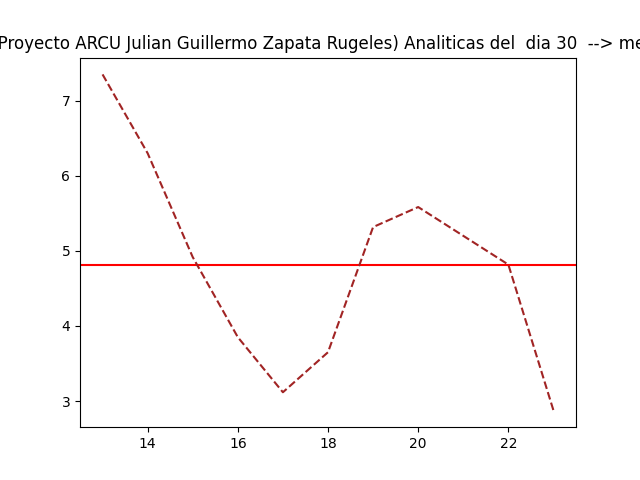
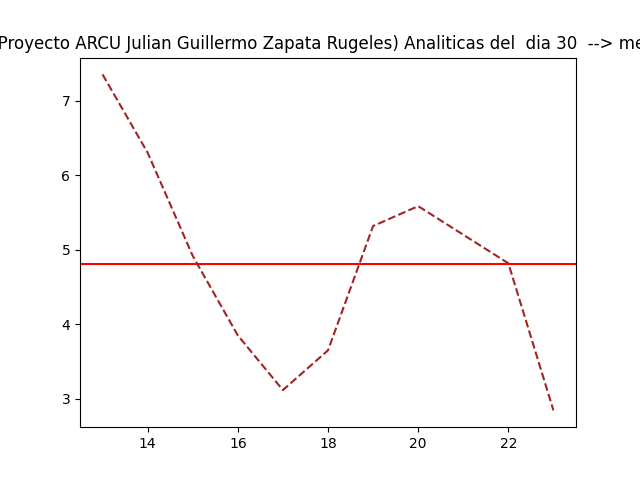
se añadió el registro de red (velocidad subida/bajada) y su modulo para graficar

diff --git a/analizador.py b/analizador.py
@@ -1,5 +1,6 @@
 import pandas as pd
 import matplotlib.pyplot as plt
+import numpy as np
 import os
 import math
 import time
@@ -42,10 +43,15 @@ def reporteEspecifico():
     eje_x = dataframeBuscado['minutos']
     eje_y = dataframeBuscado['dispositivos_activos']
 
+    velocidad_bajada  = dataframeBuscado['vel_bajada']
+    velocidad_subida  = dataframeBuscado['vel_subida']
     c=dataframeBuscado['dispositivos_activos'].mean()
     plt.title(titulo)
-    plt.axhline(y=c, color='r', linestyle='-')
+    plt.axhline(y=c, color='black', linestyle=':')
+    plt.plot(eje_x,velocidad_subida, color="green")
+    plt.plot(eje_x,velocidad_bajada, color="red")
     plt.plot(eje_x, eje_y, color='#a12424' ,linestyle='dashed')
+    #plt.ylim(0,10)
     plt.show()
 
 
@@ -74,20 +80,29 @@ def reporteDia():
     dataframeHoras = dataframe['hora'].unique() # obtendré los horas disponibles durante el día
     tmp_list_prom = []
     tmp_list_hour = []
+    tmp_media_vel_up = []
+    tmp_media_vel_down = []
     for hour_avalibles in dataframeHoras:
         #print(type(hour_avalibles))
         tmp_data = dataframeBuscado[dataframeBuscado.hora == hour_avalibles]
         promedio_dispositivos = tmp_data['dispositivos_activos'].mean()
         tmp_list_prom.append(promedio_dispositivos)
         tmp_list_hour.append(hour_avalibles)
+        tmp_media_vel_up.append(tmp_data['vel_subida'].mean())
+        tmp_media_vel_down.append(tmp_data['vel_bajada'].mean())
 
     new_data_frame = pd.DataFrame()
     new_data_frame['hora']=tmp_list_hour
     new_data_frame['promedio']=tmp_list_prom
+    new_data_frame['velocidad_subida']=tmp_media_vel_up
+    new_data_frame['velocidad_bajada']=tmp_media_vel_down
 
     #print(new_data_frame)
     eje_x = new_data_frame['hora']
     eje_y = new_data_frame['promedio']
+
+    vel_up = new_data_frame['velocidad_subida']
+    vel_down = new_data_frame['velocidad_bajada']
 
     #eje_x2 = dataframeBuscado['minutos']
     #eje_y2 = dataframeBuscado['dispositivos_activos']
@@ -95,9 +110,12 @@ def reporteDia():
 
     c=new_data_frame['promedio'].mean()
     plt.title("( Proyecto ARCU Julian Guillermo Zapata Rugeles) Analiticas del  dia {}  --> mes {}".format(dia_buscado,mes_buscado))
-    plt.axhline(y=c, color='r', linestyle='-')
+    plt.axhline(y=c, color='r', linestyle=':')
+
     plt.plot(eje_x, eje_y, color='#a12424' ,linestyle='dashed')
     #plt.plot(eje_x2, eje_y2, color='#4bb27b' ,linestyle='dashed')
+    plt.plot(eje_x,vel_up, color="green")
+    plt.plot(eje_x,vel_down, color="red")
 
     file_save = time.localtime()[0:3]
     os.system("mkdir REPORTES/ 2>/dev/null")
@@ -118,10 +136,12 @@ def reporteDia():
 
 
 salir = False
-names_header = ['dia','mes','año','hora','minutos','minutos_prueba','memoria_total','memoria_usada','porcentaje_usado','dispositivos_activos','ip']
+names_header = ['dia','mes','año','hora','minutos','minutos_prueba','memoria_total','memoria_usada','porcentaje_usado','dispositivos_activos','ip','vel_bajada','vel_subida']
 dataframe = pd.read_csv ("ANALITICAS/analiticas.csv", delimiter =";" , names=names_header)
-
-
+dataframe['vel_bajada'] = dataframe['vel_bajada'].fillna(0)
+dataframe['vel_subida'] = dataframe['vel_subida'].fillna(0)
+#dataframe["vel_subida"] = pd.to_numeric(dataframe["vel_subida"], downcast="float")
+print(dataframe)
 menu = """
 Desarrollado por Julián Guillermo Zapata Rugeles
 
@@ -140,3 +160,5 @@ while salir == False:
         reporteEspecifico()
     elif entrada=="2":
         reporteDia()
+    else:
+        exit(0)

diff --git a/generador.py b/generador.py
@@ -3,6 +3,7 @@ import matplotlib.pyplot as plt
 import os
 import math
 import time
+import speed
 """
 Autor = Julián Guillermo Zapata Rugeles
 Año   = 2021
@@ -36,20 +37,30 @@ def reporteDia():
     dataframeHoras = dataframe['hora'].unique() # obtendré los horas disponibles durante el día
     tmp_list_prom = []
     tmp_list_hour = []
+    tmp_media_vel_up = []
+    tmp_media_vel_down = []
     for hour_avalibles in dataframeHoras:
         #print(type(hour_avalibles))
         tmp_data = dataframeBuscado[dataframeBuscado.hora == hour_avalibles]
         promedio_dispositivos = tmp_data['dispositivos_activos'].mean()
         tmp_list_prom.append(promedio_dispositivos)
         tmp_list_hour.append(hour_avalibles)
+        #print(tmp_data)
+        tmp_media_vel_up.append(tmp_data['vel_subida'].mean())
+        tmp_media_vel_down.append(tmp_data['vel_bajada'].mean())
 
     new_data_frame = pd.DataFrame()
     new_data_frame['hora']=tmp_list_hour
     new_data_frame['promedio']=tmp_list_prom
+    new_data_frame['velocidad_subida']=tmp_media_vel_up
+    new_data_frame['velocidad_bajada']=tmp_media_vel_down
 
     #print(new_data_frame)
     eje_x = new_data_frame['hora']
     eje_y = new_data_frame['promedio']
+
+    vel_up = new_data_frame['velocidad_subida']
+    vel_down = new_data_frame['velocidad_bajada']
 
     #eje_x2 = dataframeBuscado['minutos']
     #eje_y2 = dataframeBuscado['dispositivos_activos']
@@ -57,11 +68,14 @@ def reporteDia():
 
     c=new_data_frame['promedio'].mean()
     plt.title("( Proyecto ARCU Julian Guillermo Zapata Rugeles) Analiticas del  dia {}  --> mes {}".format(dia_buscado,mes_buscado))
-    plt.axhline(y=c, color='r', linestyle='-')
+    plt.axhline(y=c, color='r', linestyle=':')
     plt.plot(eje_x, eje_y, color='#a12424' ,linestyle='dashed')
     #plt.plot(eje_x2, eje_y2, color='#4bb27b' ,linestyle='dashed')
+    plt.bar(eje_x,vel_up, color="green")
+    plt.bar(eje_x,vel_down, color="red")
 
-
+    file_save = time.localtime()[0:3]
+    #plt.plot(eje_x2, eje_y2, color='#4bb27b' ,linestyle='dashed')
     ruta = os.popen("pwd").read().replace("\n","").replace(" ","")
     folder = "mkdir "+ruta+"/REPORTES/ 2>/dev/null"
     os.system(folder)
@@ -71,8 +85,9 @@ def reporteDia():
 
 
 
-salir = False
-names_header = ['dia','mes','año','hora','minutos','minutos_prueba','memoria_total','memoria_usada','porcentaje_usado','dispositivos_activos','ip']
+names_header = ['dia','mes','año','hora','minutos','minutos_prueba','memoria_total','memoria_usada','porcentaje_usado','dispositivos_activos','ip','vel_bajada','vel_subida']
 dataframe = pd.read_csv ("ANALITICAS/analiticas.csv", delimiter =";" , names=names_header)
-
+dataframe['vel_bajada'] = dataframe['vel_bajada'].fillna(0)
+dataframe['vel_subida'] = dataframe['vel_subida'].fillna(0)
+#dataframe["vel_subida"] = pd.to_numeric(dataframe["vel_subida"], downcast="float")
 reporteDia()

diff --git a/recolector.py b/recolector.py
@@ -1,6 +1,7 @@
 import os
 import time
 import dispositivos
+import speed
 """
 
 
@@ -22,7 +23,8 @@ Año   = 2021
     #################################################################
 
 
-    [ DIA ; MES ; AÑO ; HORA ; MINUTOS ; MINUTOS POR PRUEBA; MEMORIA DISPONIBLE; MEMORIA USADA; PORCENTAJE; CONECTADOS RED; IP'S ]
+    [ DIA ; MES ; AÑO ; HORA ; MINUTOS ; MINUTOS POR PRUEBA; MEMORIA DISPONIBLE;
+      MEMORIA USADA; PORCENTAJE; CONECTADOS RED; IP'S ;VEL BAJADA ; VEL SUBIDA ]
 
 
 
@@ -64,7 +66,8 @@ class RecolectorInformacion():
         print("Nivel memoria : ",memory_porcent,"%")
         print("\n--------------------------------\n")
         conectados = dispositivos.BusquedaPorRango(20,50)
-        salida = str(date) + ";" + str(hour) + ";" + str(minutos) +";"+ str(total_memory) + ";" + str(used_memory) +";"+str(memory_porcent)+";"+conectados
+        velocidad = speed.obtenerVelocidad()
+        salida = str(date) + ";" + str(hour) + ";" + str(minutos) +";"+ str(total_memory) + ";" + str(used_memory) +";"+str(memory_porcent)+";"+conectados+";"+velocidad
         file = self.__ruta_uso+ self.__save_folder + self.__file_name
         archivo_salida = open(file,"a")
         archivo_salida.write(salida)

diff --git a/speed.py b/speed.py
@@ -1,0 +1,31 @@
+
+import os
+
+def obtenerVelocidad():
+    #
+    # Este módulo permite obtener la velocidad actual de la red
+    # Necesita del modulo speed-test-cli para ejecutarse correctamente
+    # el return de este módulo será una cadena con la velocidad de la red
+    # medida por el dispositivo en dicho momento
+    # deberá retornar ( x ,  x   , x ) ping , bajada , subida
+    # deberá retornar ( 0  , 0   , 0 ) si falla la red para dicho caso
+
+    comando_busqueda  = "/usr/local/bin/speedtest-cli --simple"
+    salida = os.popen(comando_busqueda).read().replace(" ","")
+    #os.system("sh speed_test.sh")
+    #salida =  open("speed_out").read()
+    salida =  salida.replace("Download:","").replace("Upload:","").replace("Mbit/s","")
+    lista_salida = salida.split("\n")
+    lista_salida.pop(0)
+    lista_final = []
+    for i  in lista_salida:
+        if len(i)!=0:
+            lista_final.append(i)
+
+    if len(lista_final)==0:
+        salida = "0;0"
+    else:
+        salida = ";".join(lista_final)
+    print("+++++++++++++++ RESULTADOS DE RED +++++++++++++++")
+    print(salida)
+    return salida

diff --git a/dispositivos.py b/dispositivos.py
@@ -26,8 +26,6 @@ def ping(ip_probe):
     return resultado_busqueda
 
 
-
-
 def BusquedaPorRango(ip_start,ip_finish):
     # esta función recibe dos rangos de busqueda
     # solo se alternan los ultimos rangos para dicha función 192.168.1.X
